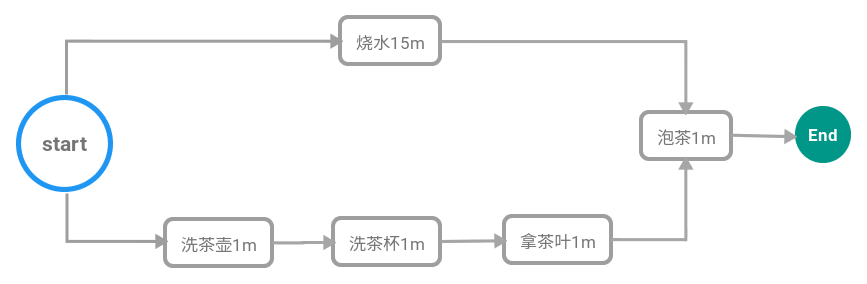
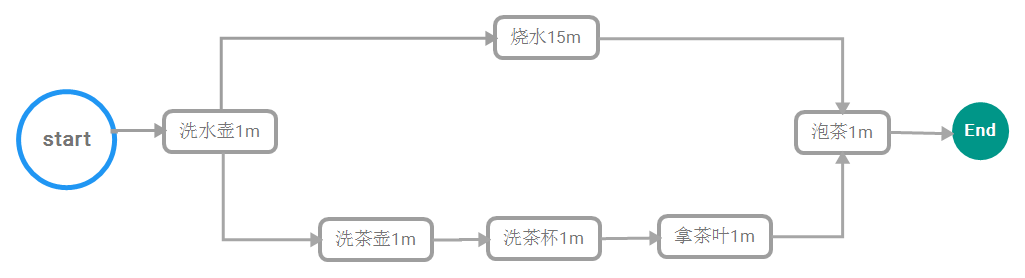
blog

Changed region(s): [[0.0, 0.0288, 0.9965, 0.9496]]

diff --git a/source/_posts/think/2017-01-13-path.md b/source/_posts/think/2017-01-13-path.md
@@ -1,13 +1,15 @@
 ---
 layout: post
 date: 2017-01-13
-title: 魔兽中的关键路径
+title: 不会玩魔兽的项目经理不是好项目经理
 categories: [think]
 tags: [experience,think,随笔]
 avatarimg: "/img/head.jpg"
 author: wangyifan
 
 ---
+
+很明显，这是标题党～只是扯扯**项目管理**！
 
 扯这个话题的原因是，上周部门有一个关于「关键路径」的分享，个人觉得「关键路径」这玩样比较鸡肋！这里做个复盘，确认一下是否确实是个鸡肋～
 
@@ -50,31 +52,33 @@ author: wangyifan
 
 大概问题是这样的：“烧水泡茶"有五道工序：
 
-1. 烧开水
-2. 洗茶壶
-3. 洗茶杯
-4. 拿茶叶
-5. 泡茶
+- 洗水壶
+- 烧开水
+- 洗茶壶
+- 洗茶杯
+- 拿茶叶
+- 泡茶
 
-烧开水、洗茶壶、洗茶杯，拿茶叶是泡茶的前提。
+洗水壶是烧开水的前提；烧开水、洗茶壶、洗茶杯，拿茶叶是泡茶的前提。
 
-各道工序用时表： 烧开水 15分钟， 洗茶壶 2分钟， 洗茶杯 1钟分， 拿茶叶 1分钟， 泡茶 1分钟，如何以最快的速度烧水泡茶？
+各道工序用时表： 洗水壶1分钟，烧开水15分钟，洗茶壶2分钟，洗茶杯1钟分，拿茶叶1分钟， 泡茶1分钟，如何以最快的速度烧水泡茶？
 
 正常人都知道：
 
-- 先烧水
+- 先洗水壶
+- 烧开水
 - 烧水过程中，洗刷茶具，拿茶叶
 - 水烧开后沏茶
 
 ![](/assets/think/critialpath/path2.png)
 
-以这个流程来看，如果我们想中午12点开始烧水泡茶，那么烧水的「最早开始时间」需要是12点，「最早结束时间」 是12点一刻！另一条现上，洗茶壶的「最早开始时间」是12点，「最早结束时间」 是12点1分；洗茶杯的「最早开始时间」是12点1分，「最早结束时间」 是12点2分；拿茶叶的「最早开始时间」 是12点2分，「最早结束时间」 是12点3分！而泡茶的「最早开始时间」是12点一刻(必须要等水少好)，「最早结束时间」 是12点16分；喝到茶的「最早开始时间」是12点16分！
+以这个流程来看，如果我们想中午12点开始烧水泡茶，那么洗水壶的「最早开始时间」需要是12点，「最早结束时间」是12点1分；烧水的「最早开始时间」需要是12点1分，「最早结束时间」是12点16分！另一条现上，洗茶壶的「最早开始时间」是12点1分，「最早结束时间」是12点2分；洗茶杯的「最早开始时间」是12点2分，「最早结束时间」是12点3分；拿茶叶的「最早开始时间」是12点3分，「最早结束时间」是12点4分！而泡茶的「最早开始时间」是12点16分(必须要等水少好)，「最早结束时间」是12点17分；喝到茶的「最早开始时间」是12点17分！
 
-再反过来推，如果要在12点16分能喝到茶！也就是说喝茶的「最晚开始时间」是12点16分！那么泡茶的「最晚开始时间」是12点15分，「最晚结束时间」 是12点16分；烧水「最晚开始时间」是12点，「最晚结束烧水** 时间是12点15分；拿茶叶的「最晚开始时间」是12点14分，拿茶叶「最晚结束时间」是12点15分；洗茶杯的「最晚开始时间」是12点13分，洗茶杯「最晚结束时间」是12点14分；洗茶壶的「最晚开始时间」是12点12分，洗茶壶「最晚结束时间」是12点13分；
+再反过来推，如果要在12点17分能喝到茶！也就是说喝茶的「最晚开始时间」是12点17分！那么泡茶的「最晚开始时间」是12点16分，「最晚结束时间」是12点17分；烧水「最晚开始时间」是12点1分，「最晚结束烧水」时间是12点16分；洗水壶的「最晚开始时间」需要是12点，「最晚结束时间」是12点1分；拿茶叶的「最晚开始时间」是12点15分，拿茶叶「最晚结束时间」是12点16分；洗茶杯的「最晚开始时间」是12点14分，洗茶杯「最晚结束时间」是12点15分；洗茶壶的「最晚开始时间」是12点13分，洗茶壶「最晚结束时间」是12点14分；
 
-可以看出，烧水和泡茶的「最早开始时间与最晚开始时间、最早结束时间与最晚结束时间是相同的」，也就是说烧水和泡茶是不能有偏差的！这条路径确定了泡茶的最终所耗时间，这条路径就是「关键路径」！
+可以看出，洗水壶、烧水和泡茶的「最早开始时间与最晚开始时间、最早结束时间与最晚结束时间是相同的」，也就是说洗水壶、烧水和泡茶是不能有偏差的！这条路径确定了泡茶的最终所耗时间，这条路径就是「关键路径」！
 
-而洗茶壶、洗茶杯，拿茶叶的「最早开始时间与最晚开始时间、最早结束时间与最晚结束时间是不同的」！这条路径不决定最终的泡茶时间，所以是非关键路径！其中的12分钟的偏差就是「总时差」！而洗茶壶的「自由时差」是12分钟、洗茶杯的「自由时差」是11分钟、那茶叶的「自由时差」是10分钟！
+而洗茶壶、洗茶杯，拿茶叶的「最早开始时间与最晚开始时间、最早结束时间与最晚结束时间是不同的」！这条路径不决定最终的泡茶时间，所以是非关键路径！其中的12分钟的偏差就是「总时差」！而如果洗茶杯的最早开始时间变为12点5分，则洗茶壶的「自由误差」就是3分钟！
 
 到这里都没什么问题，问题在下面，我们举个复杂的例子！
 
@@ -109,10 +113,23 @@ author: wangyifan
 - 实线表示先后顺序
 - 虚线为必要条件，表示所指向的目标需要执行时，除了要在实线初始端的目标之后执行外，还需要在虚线初始端的目标之后执行
 
-# 关键路径法打造「万金油」
+如果做过项目管理，这个情况是不是很熟悉？五个人力，如何高效的完成项目？
 
-我们来看看使用关键路径法来打造「万金油」！
+# 统筹方法打造「万金油」
 
+上面的烧水泡茶是个很简单的例子，一眼就能看出如何优化执行！这个例子你能一眼就看出最优执行方案吗？我们来看看使用统筹方法来打造「万金油」！
+
+- 先找出最长耗时的活动
+
+#「万金油」中的关键路径
+
+# 关键路径悖论
+
+## 估算误差
+
+## 最终都是关键路径
+
+# 总结
 
 关键路径的基本问题：
 1、  什么是关键路径？
@@ -129,11 +146,3 @@ author: wangyifan
 会，如果关键路径上的活动被延误了，或者管理层要求比原定日期提前完工。
 7、  出现负浮动时间时，怎么办？
 负浮动时间必须尽快加以解决，可以进行赶工、快速跟进等。
-
-# 关键路径举例
-
-# 关键路径悖论
-
-## 估算误差
-
-## 最终都是关键路径

diff --git a/source/_posts/tech/architecture/2017-01-16-jmh.md b/source/_posts/tech/architecture/2017-01-16-jmh.md
@@ -1,0 +1,62 @@
+---
+layout: post
+date: 2017-01-16
+title: JMH架构与源码分析
+categories: [architecture]
+tags: [architecture,jmh]
+avatarimg: "/img/head.jpg"
+author: wangyifan
+published: false
+
+---
+
+# 什么是JMH
+
+# 简单示例
+
+# JMH整体架构
+
+## JMH组件
+
+- Runner：执行JMH测试
+- Result：JMH执行结果
+- ResultFormat：结果格式
+- OutputFormat：输出格式
+- Options：执行JMH的参数
+
+## JMH包结构
+
+jmh-core中包含了7个包：
+
+- annotations：没什么可说的了，JMH中的注解
+- generators.core：用于生成JMH相关代码
+- infra：对被测试的方法的资源消耗的一些模拟类(暂未搞清楚)
+- profile：各种自定义监控类，类似Filter，通过OptionsBuilder.addProfiler构建profile链，增加感兴趣的监控点
+- results：JMH执行结果
+- runner：执行JMH的相关类
+- util：工具类
+
+## 相关类
+
+注解类
+
+AuxCounters
+Benchmark
+BenchmarkMode
+CompilerControl
+Fork
+Group
+GroupThreads
+Level
+Measurement
+Mode
+OperationsPerInvocation
+OutputTimeUnit
+Param
+Scope
+Setup
+State
+TearDown
+Threads
+Timeout
+Warmup
